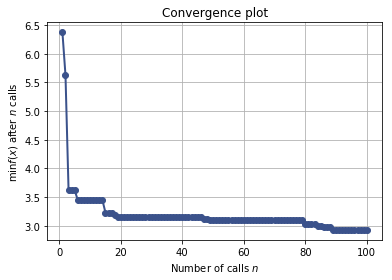
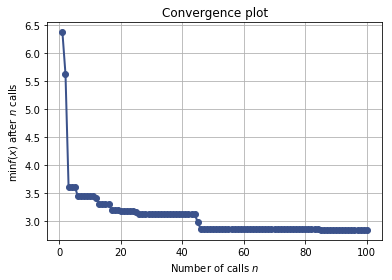
Pushing the docs for revision for branch: master, commit 9cdd21160f4b4352b05f7b7ce9f0f63506c585c9

diff --git a/notebooks/bayesian-optimization.html b/notebooks/bayesian-optimization.html
@@ -1223,50 +1223,50 @@ controlling the exploration-exploitation trade-off.
              kernel=1**2 * Matern(length_scale=1, nu=2.5) + WhiteKernel(noise_level=0.01),
              n_restarts_optimizer=2, noise=0.010000000000000002,
              normalize_y=True, optimizer=&#39;fmin_l_bfgs_b&#39;,
-             random_state=&lt;mtrand.RandomState object at 0x7f58ddead828&gt;), GaussianProcessRegressor(alpha=0.0, copy_X_train=True,
+             random_state=&lt;mtrand.RandomState object at 0x7f11e5906828&gt;), GaussianProcessRegressor(alpha=0.0, copy_X_train=True,
              kernel=1**2 * Matern(length_scale=1, nu=2.5) + WhiteKernel(noise_level=0.01),
              n_restarts_optimizer=2, noise=0.010000000000000002,
              normalize_y=True, optimizer=&#39;fmin_l_bfgs_b&#39;,
-             random_state=&lt;mtrand.RandomState object at 0x7f58ddebf4c8&gt;), GaussianProcessRegressor(alpha=0.0, copy_X_train=True,
+             random_state=&lt;mtrand.RandomState object at 0x7f11e59114c8&gt;), GaussianProcessRegressor(alpha=0.0, copy_X_train=True,
              kernel=1**2 * Matern(length_scale=1, nu=2.5) + WhiteKernel(noise_level=0.01),
              n_restarts_optimizer=2, noise=0.010000000000000002,
              normalize_y=True, optimizer=&#39;fmin_l_bfgs_b&#39;,
-             random_state=&lt;mtrand.RandomState object at 0x7f58ddebf8b8&gt;), GaussianProcessRegressor(alpha=0.0, copy_X_train=True,
+             random_state=&lt;mtrand.RandomState object at 0x7f11e59118b8&gt;), GaussianProcessRegressor(alpha=0.0, copy_X_train=True,
              kernel=1**2 * Matern(length_scale=1, nu=2.5) + WhiteKernel(noise_level=0.01),
              n_restarts_optimizer=2, noise=0.010000000000000002,
              normalize_y=True, optimizer=&#39;fmin_l_bfgs_b&#39;,
-             random_state=&lt;mtrand.RandomState object at 0x7f58ddebf9d8&gt;), GaussianProcessRegressor(alpha=0.0, copy_X_train=True,
+             random_state=&lt;mtrand.RandomState object at 0x7f11e59119d8&gt;), GaussianProcessRegressor(alpha=0.0, copy_X_train=True,
              kernel=1**2 * Matern(length_scale=1, nu=2.5) + WhiteKernel(noise_level=0.01),
              n_restarts_optimizer=2, noise=0.010000000000000002,
              normalize_y=True, optimizer=&#39;fmin_l_bfgs_b&#39;,
-             random_state=&lt;mtrand.RandomState object at 0x7f58e8ce5168&gt;), GaussianProcessRegressor(alpha=0.0, copy_X_train=True,
+             random_state=&lt;mtrand.RandomState object at 0x7f11f0737360&gt;), GaussianProcessRegressor(alpha=0.0, copy_X_train=True,
              kernel=1**2 * Matern(length_scale=1, nu=2.5) + WhiteKernel(noise_level=0.01),
              n_restarts_optimizer=2, noise=0.010000000000000002,
              normalize_y=True, optimizer=&#39;fmin_l_bfgs_b&#39;,
-             random_state=&lt;mtrand.RandomState object at 0x7f58e8ce5750&gt;), GaussianProcessRegressor(alpha=0.0, copy_X_train=True,
+             random_state=&lt;mtrand.RandomState object at 0x7f11f079a870&gt;), GaussianProcessRegressor(alpha=0.0, copy_X_train=True,
              kernel=1**2 * Matern(length_scale=1, nu=2.5) + WhiteKernel(noise_level=0.01),
              n_restarts_optimizer=2, noise=0.010000000000000002,
              normalize_y=True, optimizer=&#39;fmin_l_bfgs_b&#39;,
-             random_state=&lt;mtrand.RandomState object at 0x7f58e8d5e360&gt;), GaussianProcessRegressor(alpha=0.0, copy_X_train=True,
+             random_state=&lt;mtrand.RandomState object at 0x7f11f079a5e8&gt;), GaussianProcessRegressor(alpha=0.0, copy_X_train=True,
              kernel=1**2 * Matern(length_scale=1, nu=2.5) + WhiteKernel(noise_level=0.01),
              n_restarts_optimizer=2, noise=0.010000000000000002,
              normalize_y=True, optimizer=&#39;fmin_l_bfgs_b&#39;,
-             random_state=&lt;mtrand.RandomState object at 0x7f58e8d5e5e8&gt;), GaussianProcessRegressor(alpha=0.0, copy_X_train=True,
+             random_state=&lt;mtrand.RandomState object at 0x7f11f079a2d0&gt;), GaussianProcessRegressor(alpha=0.0, copy_X_train=True,
              kernel=1**2 * Matern(length_scale=1, nu=2.5) + WhiteKernel(noise_level=0.01),
              n_restarts_optimizer=2, noise=0.010000000000000002,
              normalize_y=True, optimizer=&#39;fmin_l_bfgs_b&#39;,
-             random_state=&lt;mtrand.RandomState object at 0x7f58e8d5e5a0&gt;), GaussianProcessRegressor(alpha=0.0, copy_X_train=True,
+             random_state=&lt;mtrand.RandomState object at 0x7f11f0760048&gt;), GaussianProcessRegressor(alpha=0.0, copy_X_train=True,
              kernel=1**2 * Matern(length_scale=1, nu=2.5) + WhiteKernel(noise_level=0.01),
              n_restarts_optimizer=2, noise=0.010000000000000002,
              normalize_y=True, optimizer=&#39;fmin_l_bfgs_b&#39;,
-             random_state=&lt;mtrand.RandomState object at 0x7f58e8c66b40&gt;)]
- random_state: &lt;mtrand.RandomState object at 0x7f58ddea7fc0&gt;
+             random_state=&lt;mtrand.RandomState object at 0x7f11f07603a8&gt;)]
+ random_state: &lt;mtrand.RandomState object at 0x7f11e58fafc0&gt;
         space: Space([Real(low=-2.0, high=2.0, prior=uniform, transform=identity)])
         specs: {&#39;args&#39;: {&#39;n_jobs&#39;: 1, &#39;kappa&#39;: 1.96, &#39;xi&#39;: 0.01, &#39;n_restarts_optimizer&#39;: 5, &#39;n_points&#39;: 10000, &#39;callback&#39;: None, &#39;verbose&#39;: False, &#39;random_state&#39;: 123, &#39;y0&#39;: None, &#39;x0&#39;: None, &#39;acq_optimizer&#39;: &#39;lbfgs&#39;, &#39;acq_func&#39;: &#39;EI&#39;, &#39;n_random_starts&#39;: 5, &#39;n_calls&#39;: 15, &#39;base_estimator&#39;: GaussianProcessRegressor(alpha=0.0, copy_X_train=True,
              kernel=1**2 * Matern(length_scale=1, nu=2.5),
              n_restarts_optimizer=2, noise=0.010000000000000002,
              normalize_y=True, optimizer=&#39;fmin_l_bfgs_b&#39;,
-             random_state=&lt;mtrand.RandomState object at 0x7f58ddea76c0&gt;), &#39;dimensions&#39;: [(-2.0, 2.0)], &#39;func&#39;: &lt;function f at 0x7f58eb67b950&gt;}, &#39;function&#39;: &#39;base_minimize&#39;}
+             random_state=&lt;mtrand.RandomState object at 0x7f11e58fa6c0&gt;), &#39;dimensions&#39;: [(-2.0, 2.0)], &#39;func&#39;: &lt;function f at 0x7f11f30cc9d8&gt;}, &#39;function&#39;: &#39;base_minimize&#39;}
             x: [-0.31431138440779044]
       x_iters: [[0.785876742391447], [-0.85544266019848192], [-1.0925941857431873], [0.20525907633156537], [0.87787587914225274], [1.0930078275284341], [-1.5825827673513784], [-1.8740230637856119], [2.0], [1.5920603878809245], [-1.3948575246313788], [0.91055125717293051], [-0.38405568669965967], [-0.31431138440779044], [-0.30894059735758106]]
 </pre></div>

diff --git a/notebooks/ask-and-tell.html b/notebooks/ask-and-tell.html
@@ -1119,7 +1119,7 @@ table {
 </pre></div>
 
 
-<div class="codehilite"><pre><span></span>&lt;matplotlib.figure.Figure at 0x7efe00feb8d0&gt;
+<div class="codehilite"><pre><span></span>&lt;matplotlib.figure.Figure at 0x7f11586a7470&gt;
 </pre></div>
 
 
@@ -1198,7 +1198,7 @@ optimizer:</p>
 <div class="codehilite"><pre><span></span>          fun: -0.063856745472530174
     func_vals: array([-0.06385675])
        models: []
- random_state: &lt;mtrand.RandomState object at 0x7efe0391de10&gt;
+ random_state: &lt;mtrand.RandomState object at 0x7f1160adabd0&gt;
         space: Space([Real(low=-2.0, high=2.0, prior=uniform, transform=identity)])
         specs: None
             x: [-1.3229420461664514]

diff --git a/notebooks/hyperparameter-optimization.html b/notebooks/hyperparameter-optimization.html
@@ -1164,7 +1164,7 @@ Katie Malone, August 2016</p>
 </pre></div>
 
 
-<div class="codehilite"><pre><span></span>&#39;Best score=2.9298&#39;
+<div class="codehilite"><pre><span></span>&#39;Best score=2.8433&#39;
 </pre></div>
 
 
@@ -1181,9 +1181,9 @@ Katie Malone, August 2016</p>
 
 <div class="codehilite"><pre><span></span>Best parameters:
 - max_depth=5
-- learning_rate=0.123922
-- max_features=13
-- min_samples_split=86
+- learning_rate=0.092964
+- max_features=7
+- min_samples_split=2
 - min_samples_leaf=1
 </pre></div>
 

diff --git a/notebooks/strategy-comparison.html b/notebooks/strategy-comparison.html
@@ -1119,7 +1119,7 @@ table {
 </pre></div>
 
 
-<div class="codehilite"><pre><span></span>&lt;matplotlib.figure.Figure at 0x7f0651fdf5c0&gt;
+<div class="codehilite"><pre><span></span>&lt;matplotlib.figure.Figure at 0x7fca3b5bde10&gt;
 </pre></div>
 
 

diff --git a/notebooks/visualizing-results.html b/notebooks/visualizing-results.html
@@ -1119,7 +1119,7 @@ table {
 </pre></div>
 
 
-<div class="codehilite"><pre><span></span>&lt;matplotlib.figure.Figure at 0x7f2b308ba5f8&gt;
+<div class="codehilite"><pre><span></span>&lt;matplotlib.figure.Figure at 0x7f84686d03c8&gt;
 </pre></div>
 
 

diff --git a/notebooks/bayesian-optimization.md b/notebooks/bayesian-optimization.md
@@ -135,50 +135,50 @@ print(res)
                  kernel=1**2 * Matern(length_scale=1, nu=2.5) + WhiteKernel(noise_level=0.01),
                  n_restarts_optimizer=2, noise=0.010000000000000002,
                  normalize_y=True, optimizer='fmin_l_bfgs_b',
-                 random_state=<mtrand.RandomState object at 0x7f58ddead828>), GaussianProcessRegressor(alpha=0.0, copy_X_train=True,
+                 random_state=<mtrand.RandomState object at 0x7f11e5906828>), GaussianProcessRegressor(alpha=0.0, copy_X_train=True,
                  kernel=1**2 * Matern(length_scale=1, nu=2.5) + WhiteKernel(noise_level=0.01),
                  n_restarts_optimizer=2, noise=0.010000000000000002,
                  normalize_y=True, optimizer='fmin_l_bfgs_b',
-                 random_state=<mtrand.RandomState object at 0x7f58ddebf4c8>), GaussianProcessRegressor(alpha=0.0, copy_X_train=True,
+                 random_state=<mtrand.RandomState object at 0x7f11e59114c8>), GaussianProcessRegressor(alpha=0.0, copy_X_train=True,
                  kernel=1**2 * Matern(length_scale=1, nu=2.5) + WhiteKernel(noise_level=0.01),
                  n_restarts_optimizer=2, noise=0.010000000000000002,
                  normalize_y=True, optimizer='fmin_l_bfgs_b',
-                 random_state=<mtrand.RandomState object at 0x7f58ddebf8b8>), GaussianProcessRegressor(alpha=0.0, copy_X_train=True,
+                 random_state=<mtrand.RandomState object at 0x7f11e59118b8>), GaussianProcessRegressor(alpha=0.0, copy_X_train=True,
                  kernel=1**2 * Matern(length_scale=1, nu=2.5) + WhiteKernel(noise_level=0.01),
                  n_restarts_optimizer=2, noise=0.010000000000000002,
                  normalize_y=True, optimizer='fmin_l_bfgs_b',
-                 random_state=<mtrand.RandomState object at 0x7f58ddebf9d8>), GaussianProcessRegressor(alpha=0.0, copy_X_train=True,
+                 random_state=<mtrand.RandomState object at 0x7f11e59119d8>), GaussianProcessRegressor(alpha=0.0, copy_X_train=True,
                  kernel=1**2 * Matern(length_scale=1, nu=2.5) + WhiteKernel(noise_level=0.01),
                  n_restarts_optimizer=2, noise=0.010000000000000002,
                  normalize_y=True, optimizer='fmin_l_bfgs_b',
-                 random_state=<mtrand.RandomState object at 0x7f58e8ce5168>), GaussianProcessRegressor(alpha=0.0, copy_X_train=True,
+                 random_state=<mtrand.RandomState object at 0x7f11f0737360>), GaussianProcessRegressor(alpha=0.0, copy_X_train=True,
                  kernel=1**2 * Matern(length_scale=1, nu=2.5) + WhiteKernel(noise_level=0.01),
                  n_restarts_optimizer=2, noise=0.010000000000000002,
                  normalize_y=True, optimizer='fmin_l_bfgs_b',
-                 random_state=<mtrand.RandomState object at 0x7f58e8ce5750>), GaussianProcessRegressor(alpha=0.0, copy_X_train=True,
+                 random_state=<mtrand.RandomState object at 0x7f11f079a870>), GaussianProcessRegressor(alpha=0.0, copy_X_train=True,
                  kernel=1**2 * Matern(length_scale=1, nu=2.5) + WhiteKernel(noise_level=0.01),
                  n_restarts_optimizer=2, noise=0.010000000000000002,
                  normalize_y=True, optimizer='fmin_l_bfgs_b',
-                 random_state=<mtrand.RandomState object at 0x7f58e8d5e360>), GaussianProcessRegressor(alpha=0.0, copy_X_train=True,
+                 random_state=<mtrand.RandomState object at 0x7f11f079a5e8>), GaussianProcessRegressor(alpha=0.0, copy_X_train=True,
                  kernel=1**2 * Matern(length_scale=1, nu=2.5) + WhiteKernel(noise_level=0.01),
                  n_restarts_optimizer=2, noise=0.010000000000000002,
                  normalize_y=True, optimizer='fmin_l_bfgs_b',
-                 random_state=<mtrand.RandomState object at 0x7f58e8d5e5e8>), GaussianProcessRegressor(alpha=0.0, copy_X_train=True,
+                 random_state=<mtrand.RandomState object at 0x7f11f079a2d0>), GaussianProcessRegressor(alpha=0.0, copy_X_train=True,
                  kernel=1**2 * Matern(length_scale=1, nu=2.5) + WhiteKernel(noise_level=0.01),
                  n_restarts_optimizer=2, noise=0.010000000000000002,
                  normalize_y=True, optimizer='fmin_l_bfgs_b',
-                 random_state=<mtrand.RandomState object at 0x7f58e8d5e5a0>), GaussianProcessRegressor(alpha=0.0, copy_X_train=True,
+                 random_state=<mtrand.RandomState object at 0x7f11f0760048>), GaussianProcessRegressor(alpha=0.0, copy_X_train=True,
                  kernel=1**2 * Matern(length_scale=1, nu=2.5) + WhiteKernel(noise_level=0.01),
                  n_restarts_optimizer=2, noise=0.010000000000000002,
                  normalize_y=True, optimizer='fmin_l_bfgs_b',
-                 random_state=<mtrand.RandomState object at 0x7f58e8c66b40>)]
-     random_state: <mtrand.RandomState object at 0x7f58ddea7fc0>
+                 random_state=<mtrand.RandomState object at 0x7f11f07603a8>)]
+     random_state: <mtrand.RandomState object at 0x7f11e58fafc0>
             space: Space([Real(low=-2.0, high=2.0, prior=uniform, transform=identity)])
             specs: {'args': {'n_jobs': 1, 'kappa': 1.96, 'xi': 0.01, 'n_restarts_optimizer': 5, 'n_points': 10000, 'callback': None, 'verbose': False, 'random_state': 123, 'y0': None, 'x0': None, 'acq_optimizer': 'lbfgs', 'acq_func': 'EI', 'n_random_starts': 5, 'n_calls': 15, 'base_estimator': GaussianProcessRegressor(alpha=0.0, copy_X_train=True,
                  kernel=1**2 * Matern(length_scale=1, nu=2.5),
                  n_restarts_optimizer=2, noise=0.010000000000000002,
                  normalize_y=True, optimizer='fmin_l_bfgs_b',
-                 random_state=<mtrand.RandomState object at 0x7f58ddea76c0>), 'dimensions': [(-2.0, 2.0)], 'func': <function f at 0x7f58eb67b950>}, 'function': 'base_minimize'}
+                 random_state=<mtrand.RandomState object at 0x7f11e58fa6c0>), 'dimensions': [(-2.0, 2.0)], 'func': <function f at 0x7f11f30cc9d8>}, 'function': 'base_minimize'}
                 x: [-0.31431138440779044]
           x_iters: [[0.785876742391447], [-0.85544266019848192], [-1.0925941857431873], [0.20525907633156537], [0.87787587914225274], [1.0930078275284341], [-1.5825827673513784], [-1.8740230637856119], [2.0], [1.5920603878809245], [-1.3948575246313788], [0.91055125717293051], [-0.38405568669965967], [-0.31431138440779044], [-0.30894059735758106]]
 

diff --git a/notebooks/ask-and-tell.md b/notebooks/ask-and-tell.md
@@ -14,7 +14,7 @@ plt.set_cmap("viridis")
 ```
 
 
-    <matplotlib.figure.Figure at 0x7efe00feb8d0>
+    <matplotlib.figure.Figure at 0x7f11586a7470>
 
 
 Bayesian optimization is used to tune parameters for walking robots or other experiments
@@ -113,7 +113,7 @@ opt.tell(next_x, f_val)
               fun: -0.063856745472530174
         func_vals: array([-0.06385675])
            models: []
-     random_state: <mtrand.RandomState object at 0x7efe0391de10>
+     random_state: <mtrand.RandomState object at 0x7f1160adabd0>
             space: Space([Real(low=-2.0, high=2.0, prior=uniform, transform=identity)])
             specs: None
                 x: [-1.3229420461664514]

diff --git a/notebooks/hyperparameter-optimization.md b/notebooks/hyperparameter-optimization.md
@@ -72,7 +72,7 @@ res_gp = gp_minimize(objective, space, n_calls=100, random_state=0)
 
 
 
-    'Best score=2.9298'
+    'Best score=2.8433'
 
 
 
@@ -90,9 +90,9 @@ print("""Best parameters:
 
     Best parameters:
     - max_depth=5
-    - learning_rate=0.123922
-    - max_features=13
-    - min_samples_split=86
+    - learning_rate=0.092964
+    - max_features=7
+    - min_samples_split=2
     - min_samples_leaf=1
 
 

diff --git a/notebooks/strategy-comparison.md b/notebooks/strategy-comparison.md
@@ -14,7 +14,7 @@ plt.set_cmap("viridis")
 ```
 
 
-    <matplotlib.figure.Figure at 0x7f0651fdf5c0>
+    <matplotlib.figure.Figure at 0x7fca3b5bde10>
 
 
 Bayesian optimization or sequential model-based optimization uses a surrogate model

diff --git a/notebooks/visualizing-results.md b/notebooks/visualizing-results.md
@@ -14,7 +14,7 @@ plt.set_cmap("viridis")
 ```
 
 
-    <matplotlib.figure.Figure at 0x7f2b308ba5f8>
+    <matplotlib.figure.Figure at 0x7f84686d03c8>
 
 
 Bayesian optimization or sequential model-based optimization uses a surrogate model
